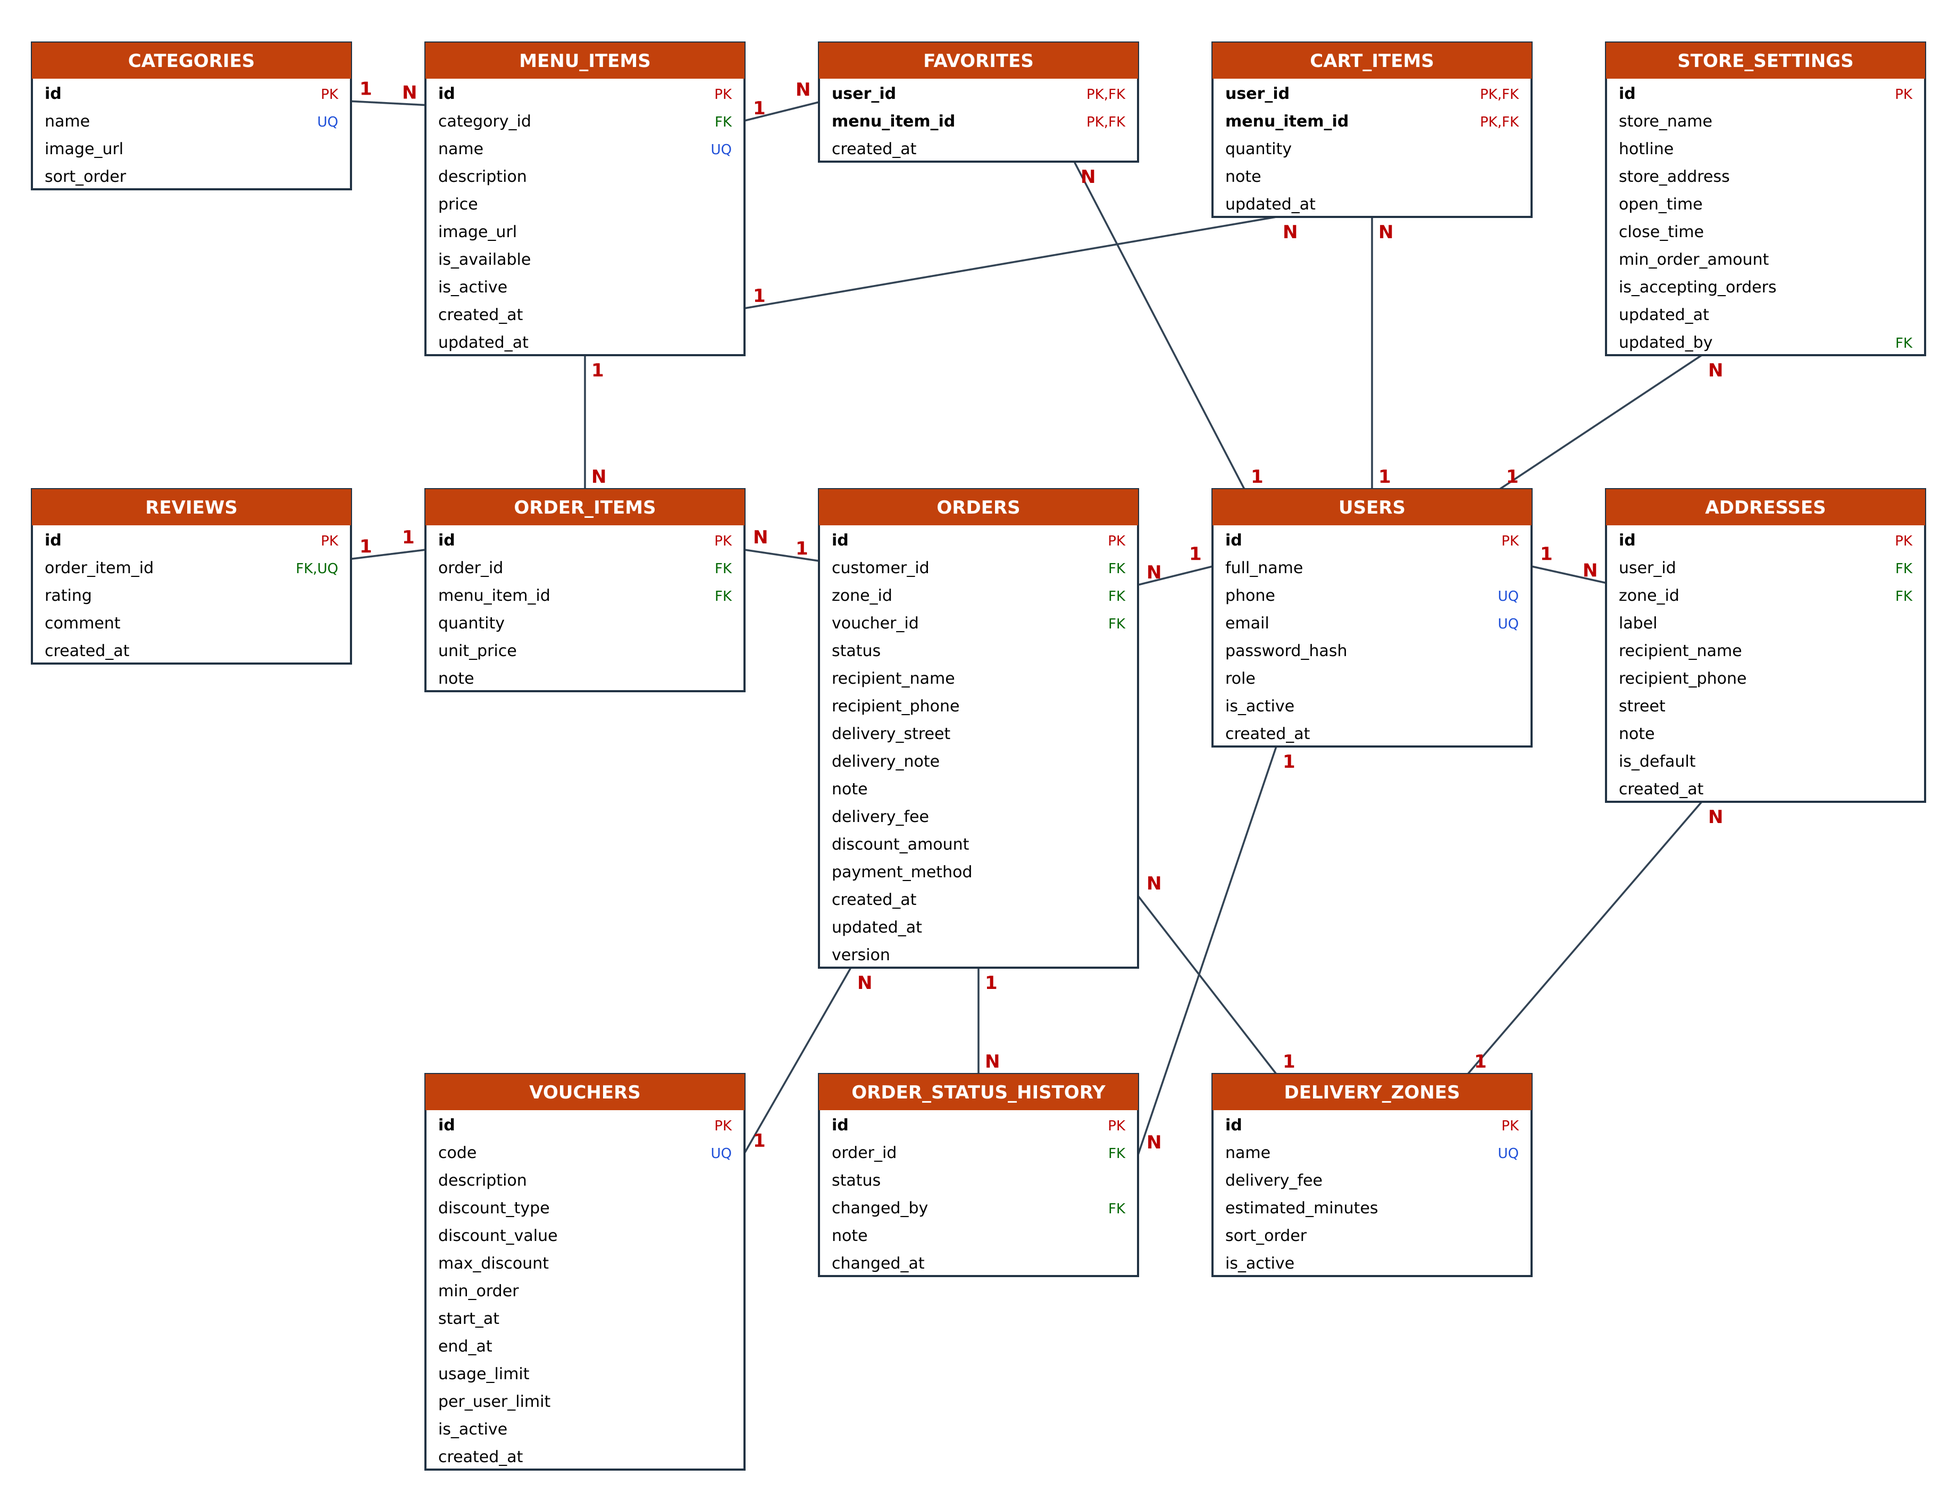
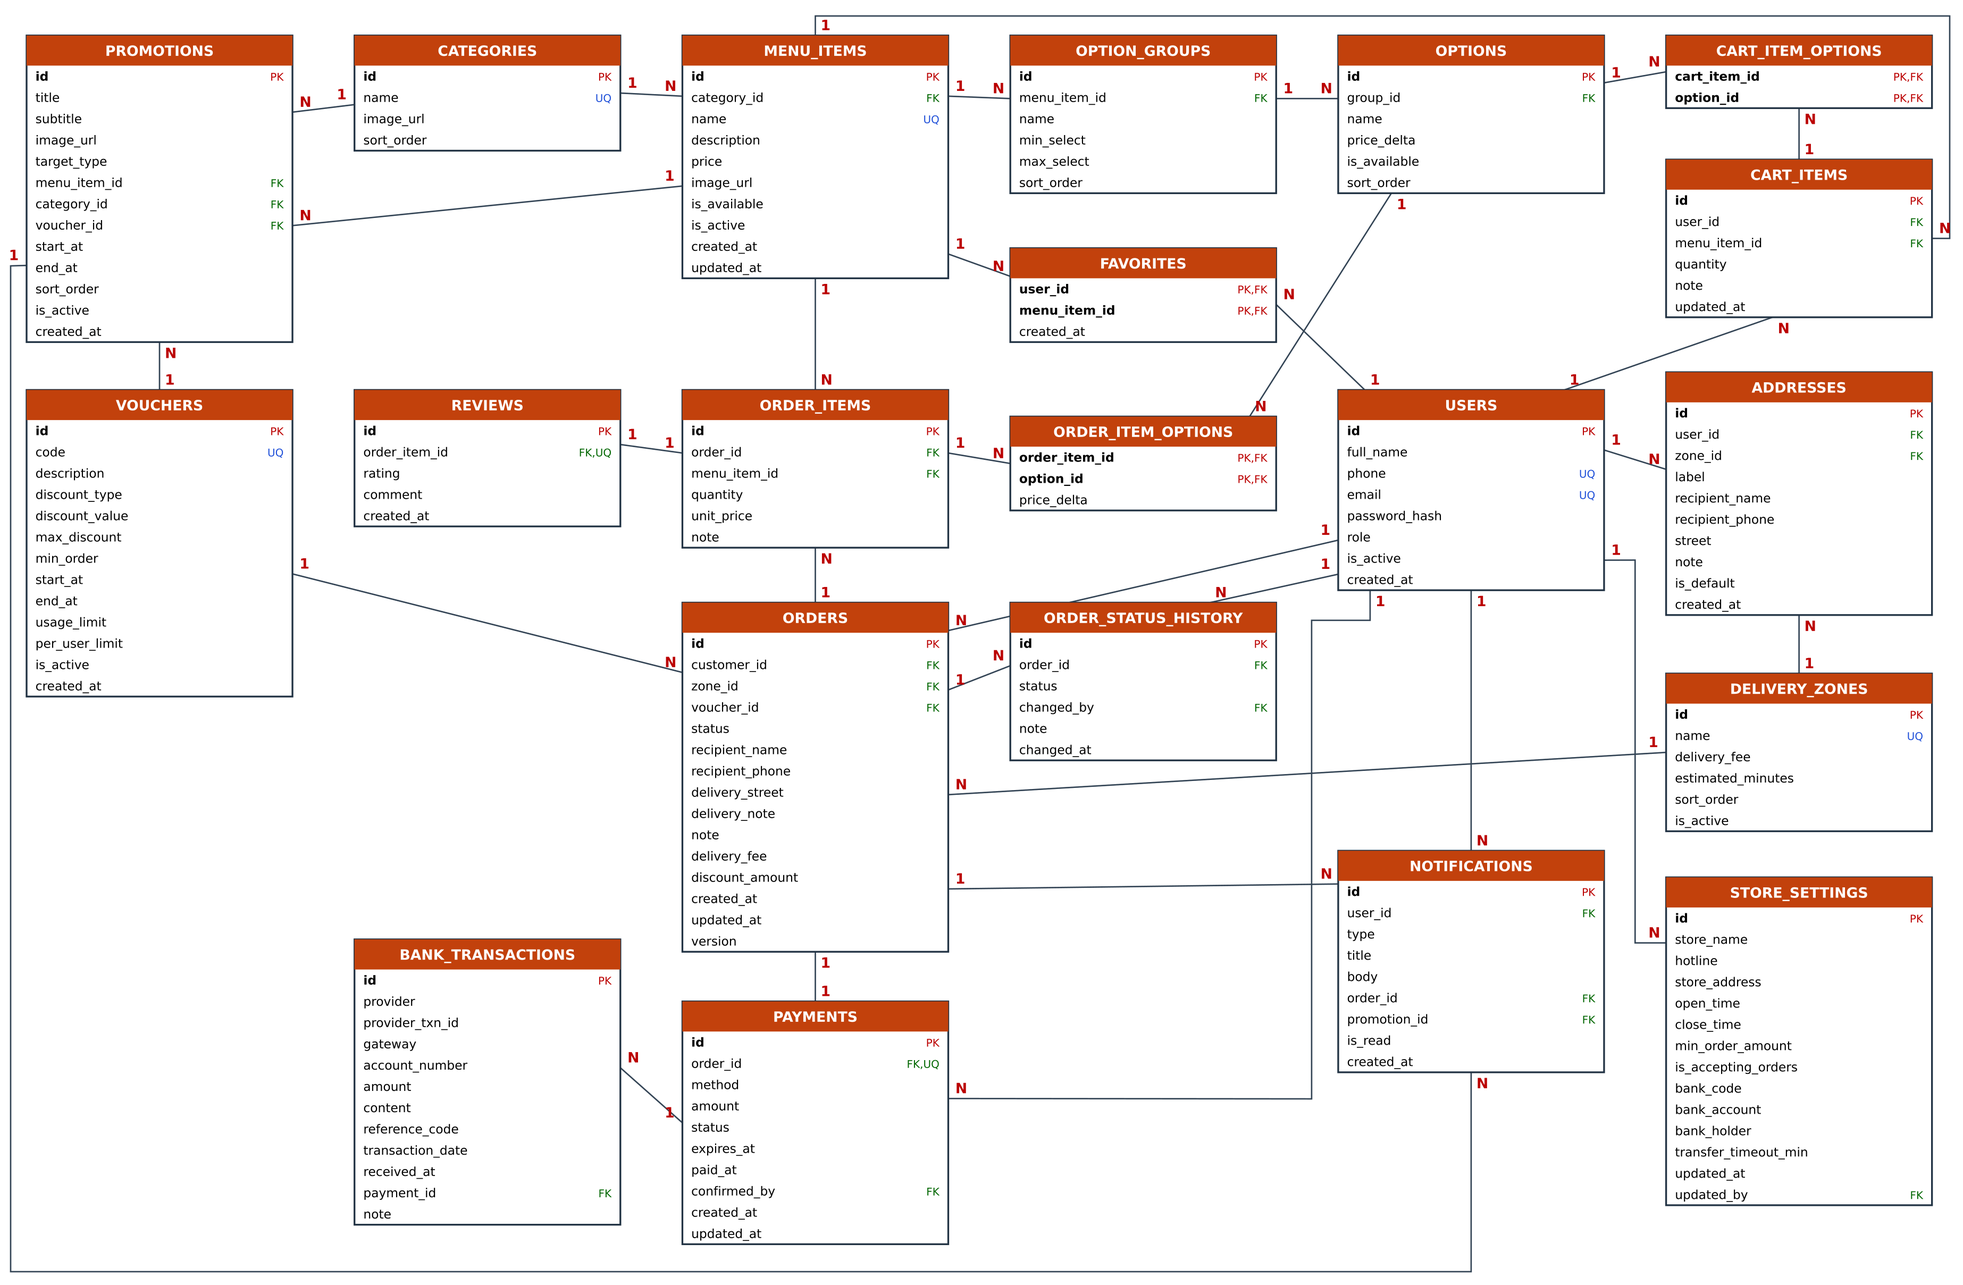
feat(payments): bank-app deeplinks, account check, method switching
- PaymentResponse carries VietQR deeplinks that open 12 popular banking apps
  with account, amount and content prefilled (phones cannot scan their own QR)
- SePay webhook only settles transfers into the store's own account
- customers switch COD <-> bank transfer before paying / before confirmation;
  a COD order paid by transfer anyway becomes a paid transfer
- order item options sorted by group like the cart
- docs: ERD (21 tables), use-case with SePay, DATABASE.md, SePay setup
- 19 API tests

Claude-Session: https://claude.ai/code/session_01WQssgtnvQ6Cb3HALwoEQP7

diff --git a/backend/src/main/java/com/restaurant/orderingsystem/service/PaymentService.java b/backend/src/main/java/com/restaurant/orderingsystem/service/PaymentService.java
@@ -46,6 +46,13 @@ public class PaymentService {
 
     @Value("${app.sepay.api-key:}") private String sepayApiKey;
     @Value("${app.payment.code-prefix:ATL}") private String codePrefix;
+    @Value("${app.public-url:http://localhost:8082}") private String publicUrl;
+
+    /** Most installed banking apps that support VietQR deeplinks (app id → name), from api.vietqr.io/v2/android-app-deeplinks. */
+    private static final String[][] BANK_APPS = {
+            {"mb", "MB Bank"}, {"vcb", "VCB Digibank"}, {"vba", "Agribank Plus"}, {"icb", "VietinBank iPay"}, {"bidv", "BIDV SmartBanking"},
+            {"tcb", "Techcombank Mobile"}, {"vpb", "VPBank NEO"}, {"cake", "CAKE"}, {"tpb", "TPBank Mobile"}, {"acb", "ACB ONE"},
+            {"ocb", "OCB OMNI"}, {"timo", "Timo"}};
 
     // ---------------------------------------------------------------- codes & QR
     String transferContent(Order o) { return codePrefix + o.getId(); }
@@ -59,9 +66,18 @@ public class PaymentService {
         String qr = showQr ? "https://qr.sepay.vn/img?acc=" + enc(s.getBankAccount()) + "&bank=" + enc(s.getBankCode())
                 + "&amount=" + p.getAmount().toBigInteger() + "&des=" + enc(content) + "&template=compact"
                 + (s.getBankHolder() == null ? "" : "&holder=" + enc(s.getBankHolder())) : null;
+        List<BankAppLink> apps = !showQr ? List.of() : java.util.Arrays.stream(BANK_APPS).map(a -> new BankAppLink(a[0], a[1],
+                "https://cdn.vietqr.io/bank-app-icon/" + a[0] + "-android.webp",
+                "https://dl.vietqr.io/pay?app=" + a[0] + "&ba=" + enc(s.getBankAccount() + "@" + s.getBankCode().toLowerCase(Locale.ROOT))
+                        + "&am=" + p.getAmount().toBigInteger() + "&tn=" + enc(content)
+                        + (s.getBankHolder() == null ? "" : "&bn=" + enc(s.getBankHolder()))
+                        + "&url=" + enc(publicUrl + "/order/" + o.getId()))).toList();
+        boolean open = p.getStatus() == PaymentStatus.PENDING;
+        boolean toCod = open && p.getMethod() == PaymentMethod.BANK_TRANSFER && o.getStatus() == OrderStatus.AWAITING_PAYMENT;
+        boolean toTransfer = open && p.getMethod() == PaymentMethod.COD && o.getStatus() == OrderStatus.PENDING && s.getBankAccount() != null;
         return new PaymentResponse(p.getId(), p.getMethod(), p.getAmount(), p.getStatus(), p.getExpiresAt(), p.getPaidAt(),
                 p.getConfirmedBy() == null ? null : p.getConfirmedBy().getFullName(), content, qr,
-                showQr ? s.getBankCode() : null, showQr ? s.getBankAccount() : null, showQr ? s.getBankHolder() : null);
+                showQr ? s.getBankCode() : null, showQr ? s.getBankAccount() : null, showQr ? s.getBankHolder() : null, apps, toCod, toTransfer);
     }
 
     private static String enc(String s) { return URLEncoder.encode(s, StandardCharsets.UTF_8); }
@@ -89,11 +105,18 @@ public class PaymentService {
         t.setTransactionDate(parseTime(w.transactionDate()));
         t.setReceivedAt(LocalDateTime.now());
 
+        String storeAccount = store.settings().getBankAccount();
+        boolean ourAccount = storeAccount != null && (storeAccount.equalsIgnoreCase(nz(w.accountNumber())) || storeAccount.equalsIgnoreCase(nz(w.subAccount())));
         Long orderId = orderIdFrom(w.code(), w.content());
         Payment p = orderId == null ? null : orders.findById(orderId).map(Order::getPayment).orElse(null);
-        if (p == null || p.getMethod() != PaymentMethod.BANK_TRANSFER) {
+        if (!ourAccount) {
+            t.setNote("Không phải tài khoản nhận tiền của quán – bỏ qua");
+        } else if (p == null) {
             t.setNote("Không khớp đơn hàng nào");
         } else {
+            if (p.getMethod() == PaymentMethod.COD && p.getStatus() == PaymentStatus.PENDING) {
+                p.setMethod(PaymentMethod.BANK_TRANSFER);   // customer chose COD but paid by transfer anyway
+            }
             t.setPayment(p);
             settle(p, t);
         }
@@ -123,6 +146,30 @@ public class PaymentService {
         p.setPaidAt(LocalDateTime.now());
         t.setNote(t.getAmount().compareTo(p.getAmount()) > 0 ? "Chuyển dư " + Money.vnd(t.getAmount().subtract(p.getAmount())) : "Khớp đơn");
         if (o.getStatus() == OrderStatus.AWAITING_PAYMENT) events.change(o, OrderStatus.PENDING, "Đã nhận chuyển khoản " + Money.vnd(t.getAmount()), null);
+    }
+
+    private static String nz(String s) { return s == null ? "" : s.trim(); }
+
+    /** Customer switches between COD and bank transfer before paying / before the store confirmed the order. */
+    @Transactional
+    public PaymentResponse switchMethod(Order o, PaymentMethod to) {
+        Payment p = o.getPayment();
+        if (p == null || p.getStatus() != PaymentStatus.PENDING) throw ApiException.badRequest("Đơn đã thanh toán hoặc đã đóng, không đổi được phương thức");
+        if (p.getMethod() == to) return toResponse(p);
+        if (to == PaymentMethod.COD) {
+            if (o.getStatus() != OrderStatus.AWAITING_PAYMENT) throw ApiException.badRequest("Đơn không ở trạng thái chờ thanh toán");
+            p.setMethod(PaymentMethod.COD);
+            p.setExpiresAt(null);
+            events.change(o, OrderStatus.PENDING, "Khách đổi sang thanh toán khi nhận hàng", null);
+        } else {
+            if (o.getStatus() != OrderStatus.PENDING) throw ApiException.badRequest("Cửa hàng đã xác nhận đơn, không đổi sang chuyển khoản được nữa");
+            StoreSettings s = store.settings();
+            if (s.getBankAccount() == null) throw ApiException.badRequest("Cửa hàng chưa hỗ trợ chuyển khoản");
+            p.setMethod(PaymentMethod.BANK_TRANSFER);
+            p.setExpiresAt(LocalDateTime.now().plusMinutes(s.getTransferTimeoutMinutes()));
+            events.change(o, OrderStatus.AWAITING_PAYMENT, "Khách đổi sang chuyển khoản", null);
+        }
+        return toResponse(p);
     }
 
     Long orderIdFrom(String code, String content) {

diff --git a/backend/src/test/java/com/restaurant/orderingsystem/PaymentsOptionsPromotionsTest.java b/backend/src/test/java/com/restaurant/orderingsystem/PaymentsOptionsPromotionsTest.java
@@ -52,8 +52,12 @@ class PaymentsOptionsPromotionsTest extends ApiTestBase {
     }
 
     ResultActions webhook(String auth, long id, String content, int amount) throws Exception {
+        return webhook(auth, id, content, amount, "0000000000");
+    }
+
+    ResultActions webhook(String auth, long id, String content, int amount, String account) throws Exception {
         var b = post("/api/payments/sepay/webhook").contentType(MediaType.APPLICATION_JSON).content(
-                "{\"id\":" + id + ",\"gateway\":\"MBBank\",\"transactionDate\":\"2026-11-01 10:00:00\",\"accountNumber\":\"0000000000\","
+                "{\"id\":" + id + ",\"gateway\":\"MBBank\",\"transactionDate\":\"2026-11-01 10:00:00\",\"accountNumber\":\"" + account + "\","
                         + "\"code\":null,\"content\":\"" + content + "\",\"transferType\":\"in\",\"transferAmount\":" + amount
                         + ",\"accumulated\":0,\"referenceCode\":\"FT" + id + "\"}");
         return mvc.perform(auth == null ? b : b.header("Authorization", auth));
@@ -208,5 +212,39 @@ class PaymentsOptionsPromotionsTest extends ApiTestBase {
                 + "\"sortOrder\":0,\"active\":false}").andExpect(jsonPath("$.live").value(false));
         as(null, get("/api/promotions")).andExpect(jsonPath("$[?(@.id==" + promo + ")]").isEmpty());
         as(manager, delete("/api/admin/promotions/" + promo)).andExpect(status().isNoContent());
+    }
+
+    @Test
+    void bankAppDeeplinksAndForeignAccount() throws Exception {
+        long id = transferOrder();
+        as(customer, get("/api/me/orders/" + id)).andExpect(jsonPath("$.payment.bankApps", hasSize(12)))
+                .andExpect(jsonPath("$.payment.bankApps[0].url", startsWith("https://dl.vietqr.io/pay?app=mb&ba=0000000000%40mb&am=145000&tn=ATL" + id)))
+                .andExpect(jsonPath("$.payment.canSwitchToCod").value(true));
+        // money with our payment code but into another account must not settle the order
+        webhook("Apikey test-sepay-key", ++sepayId, "ATL" + id, 145000, "9999999999").andExpect(status().isOk());
+        as(customer, get("/api/me/orders/" + id)).andExpect(jsonPath("$.status").value("AWAITING_PAYMENT"));
+        as(manager, get("/api/admin/bank-transactions")).andExpect(jsonPath("$[0].note", containsString("Không phải tài khoản")));
+    }
+
+    @Test
+    void customerSwitchesPaymentMethodBothWays() throws Exception {
+        long id = transferOrder();
+        as(customer, post("/api/me/orders/" + id + "/payment-method"), "{\"method\":\"COD\"}").andExpect(status().isOk())
+                .andExpect(jsonPath("$.status").value("PENDING")).andExpect(jsonPath("$.payment.method").value("COD"))
+                .andExpect(jsonPath("$.payment.expiresAt").doesNotExist()).andExpect(jsonPath("$.payment.canSwitchToTransfer").value(true))
+                .andExpect(jsonPath("$.timeline[1].note", containsString("thanh toán khi nhận hàng")));
+        as(customer, post("/api/me/orders/" + id + "/payment-method"), "{\"method\":\"BANK_TRANSFER\"}")
+                .andExpect(jsonPath("$.status").value("AWAITING_PAYMENT")).andExpect(jsonPath("$.payment.qrUrl").isNotEmpty());
+        as(register(), post("/api/me/orders/" + id + "/payment-method"), "{\"method\":\"COD\"}").andExpect(status().isNotFound());
+        // back to COD, store confirms → cannot switch to transfer any more
+        as(customer, post("/api/me/orders/" + id + "/payment-method"), "{\"method\":\"COD\"}").andExpect(status().isOk());
+        setStatus(staff, id, "CONFIRMED", null).andExpect(status().isOk());
+        as(customer, post("/api/me/orders/" + id + "/payment-method"), "{\"method\":\"BANK_TRANSFER\"}").andExpect(status().isBadRequest());
+        // the customer transfers anyway: the COD payment becomes a paid transfer
+        webhook("Apikey test-sepay-key", ++sepayId, "ATL" + id, 145000).andExpect(status().isOk());
+        as(customer, get("/api/me/orders/" + id)).andExpect(jsonPath("$.status").value("CONFIRMED"))
+                .andExpect(jsonPath("$.payment.method").value("BANK_TRANSFER")).andExpect(jsonPath("$.payment.status").value("PAID"));
+        // paid: no more switching
+        as(customer, post("/api/me/orders/" + id + "/payment-method"), "{\"method\":\"COD\"}").andExpect(status().isBadRequest());
     }
 }

diff --git a/backend/src/main/java/com/restaurant/orderingsystem/service/OrderService.java b/backend/src/main/java/com/restaurant/orderingsystem/service/OrderService.java
@@ -155,6 +155,13 @@ public class OrderService {
     @Transactional
     public CartResponse reorder(Long id) { return cart.addAll(own(id).getItems()); }
 
+    @Transactional
+    public OrderResponse switchPaymentMethod(Long id, PaymentMethod method) {
+        Order o = own(id);
+        payments.switchMethod(o, method);
+        return toResponse(o);
+    }
+
     Order own(Long id) {
         Order o = find(id);
         if (!o.getCustomer().getId().equals(Caller.id())) throw ApiException.notFound("Không tìm thấy đơn hàng");
@@ -246,7 +253,9 @@ public class OrderService {
         boolean reviewable = deliveredAt != null && deliveredAt.isAfter(LocalDateTime.now().minusDays(REVIEW_DAYS)) && reviewed.size() < o.getItems().size();
         List<OrderItemResponse> items = o.getItems().stream().map(i -> new OrderItemResponse(i.getId(), i.getMenuItem().getId(), i.getMenuItem().getName(),
                 i.getMenuItem().getImageUrl(), i.getQuantity(),
-                i.getOptions().stream().map(x -> new ChosenOption(x.getOption().getId(), x.getOption().getGroup().getName(), x.getOption().getName(), x.getPriceDelta())).toList(),
+                i.getOptions().stream()
+                        .sorted(Comparator.comparingInt((OrderItemOption x) -> x.getOption().getGroup().getSortOrder()).thenComparingInt(x -> x.getOption().getSortOrder()))
+                        .map(x -> new ChosenOption(x.getOption().getId(), x.getOption().getGroup().getName(), x.getOption().getName(), x.getPriceDelta())).toList(),
                 Money.of(unitPrice(i)), lineTotal(i), i.getNote(), reviewed.contains(i.getId()))).toList();
         List<StatusEvent> timeline = o.getHistory().stream()
                 .map(h -> new StatusEvent(h.getStatus(), h.getChangedAt(), h.getChangedBy() == null ? null : h.getChangedBy().getFullName(), h.getNote())).toList();

diff --git a/backend/src/main/java/com/restaurant/orderingsystem/dto/Dtos.java b/backend/src/main/java/com/restaurant/orderingsystem/dto/Dtos.java
@@ -141,7 +141,11 @@ public final class Dtos {
     /** Payment of an order; for a pending bank transfer it carries everything needed to show the VietQR code. */
     public record PaymentResponse(Long id, PaymentMethod method, BigDecimal amount, PaymentStatus status, LocalDateTime expiresAt,
                                   LocalDateTime paidAt, String confirmedByName, String transferContent, String qrUrl,
-                                  String bankCode, String bankAccount, String bankHolder) {}
+                                  String bankCode, String bankAccount, String bankHolder, List<BankAppLink> bankApps,
+                                  boolean canSwitchToCod, boolean canSwitchToTransfer) {}
+    /** Opens a Vietnamese banking app with the transfer prefilled (VietQR deeplink, https://www.vietqr.io). */
+    public record BankAppLink(String appId, String name, String logoUrl, String url) {}
+    public record PaymentMethodRequest(@NotNull PaymentMethod method) {}
     public record StatusEvent(OrderStatus status, LocalDateTime at, String byName, String note) {}
     public record OrderResponse(Long id, String code, OrderStatus status, LocalDateTime createdAt, LocalDateTime updatedAt,
                                 Long customerId, String customerName, String customerPhone,

diff --git a/backend/src/main/java/com/restaurant/orderingsystem/controller/CustomerController.java b/backend/src/main/java/com/restaurant/orderingsystem/controller/CustomerController.java
@@ -53,6 +53,7 @@ public class CustomerController {
     @GetMapping("/orders/{id}") public OrderResponse myOrder(@PathVariable Long id) { return orders.myOrder(id); }
     @PostMapping("/orders/{id}/cancel") public OrderResponse cancel(@PathVariable Long id, @Valid @RequestBody CancelRequest r) { return orders.cancelByCustomer(id, r.reason()); }
     @PostMapping("/orders/{id}/reorder") public CartResponse reorder(@PathVariable Long id) { return orders.reorder(id); }
+    @PostMapping("/orders/{id}/payment-method") public OrderResponse paymentMethod(@PathVariable Long id, @Valid @RequestBody PaymentMethodRequest r) { return orders.switchPaymentMethod(id, r.method()); }
 
     // reviews
     @PostMapping("/reviews") @ResponseStatus(HttpStatus.CREATED) public ReviewResponse review(@Valid @RequestBody ReviewRequest r) { return reviews.create(r); }

diff --git a/DEPLOY.md b/DEPLOY.md
@@ -56,6 +56,20 @@ sudo certbot --nginx -d order.atlasplatform12.tech --redirect
 ```
 certbot thêm khối 443/TLS, chuyển HTTP sang HTTPS và tự gia hạn chứng chỉ.
 
+## Thanh toán chuyển khoản (VietQR + SePay)
+
+Khách chọn "Chuyển khoản VietQR". App hiện mã QR có sẵn số tiền và nội dung `ATL<mã đơn>`. Khi tiền vào tài khoản quán, SePay gọi webhook, đơn tự chuyển từ "Chờ thanh toán" sang "Chờ xác nhận". Đơn chuyển khoản chưa thanh toán sẽ tự hủy sau thời hạn cài trong mục Cài đặt (mặc định 15 phút).
+
+1. Đăng ký tại https://my.sepay.vn và liên kết tài khoản ngân hàng nhận tiền của quán.
+2. Vào *Webhooks → Thêm webhook*:
+   - URL: `https://order.atlasplatform12.tech/api/payments/sepay/webhook`
+   - Sự kiện: tiền vào
+   - Kiểu chứng thực: **API Key**
+3. Đặt `SEPAY_API_KEY=<key>` trong `prod.env`, chạy `base64 -w0 prod.env > prod.env.b64`, cập nhật credential `ordering-prod-env` trong Jenkins, rồi deploy lại.
+4. Đăng nhập quản lý, vào *Cài đặt cửa hàng* và nhập mã ngân hàng (ví dụ `MB`, `VCB`), số tài khoản, tên chủ tài khoản. Chỉ khi đã nhập đủ, lựa chọn chuyển khoản mới hiện ra cho khách.
+
+Nếu khách chuyển sai nội dung, nhân viên vẫn xác nhận tay được: mở đơn → "Xác nhận đã nhận CK". Mọi giao dịch SePay báo về, kể cả giao dịch không khớp đơn nào, đều xem được ở *Quản lý → Thanh toán*. Đơn đã chuyển khoản mà sau đó bị hủy sẽ vào hàng "Chờ hoàn tiền".
+
 ## Vận hành
 
 ```bash
